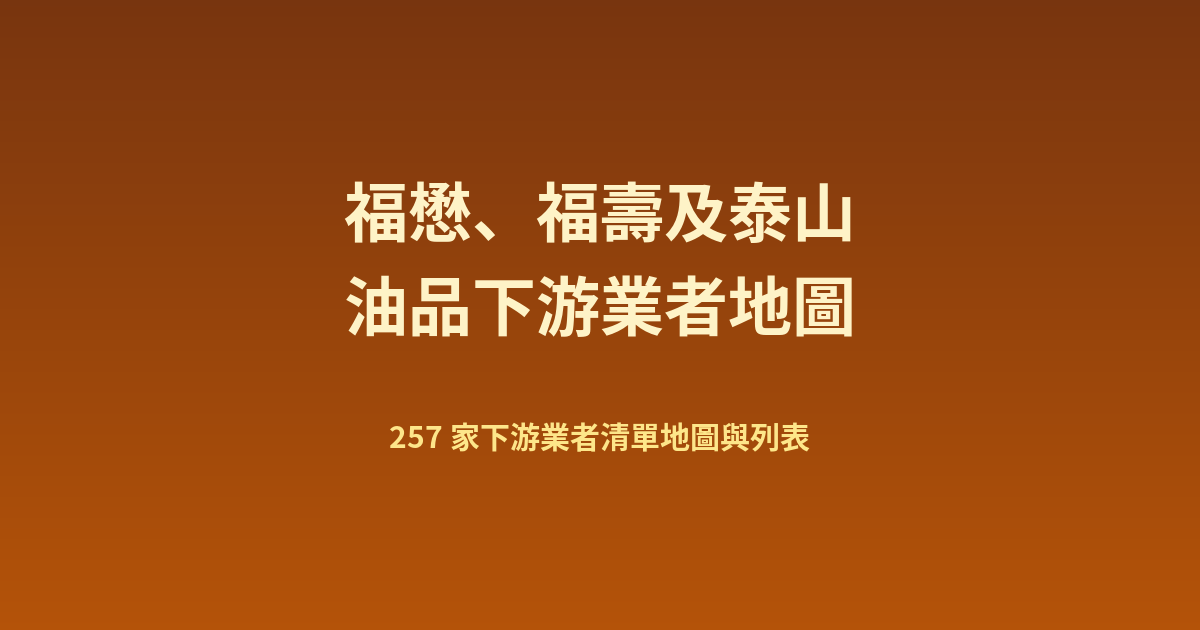
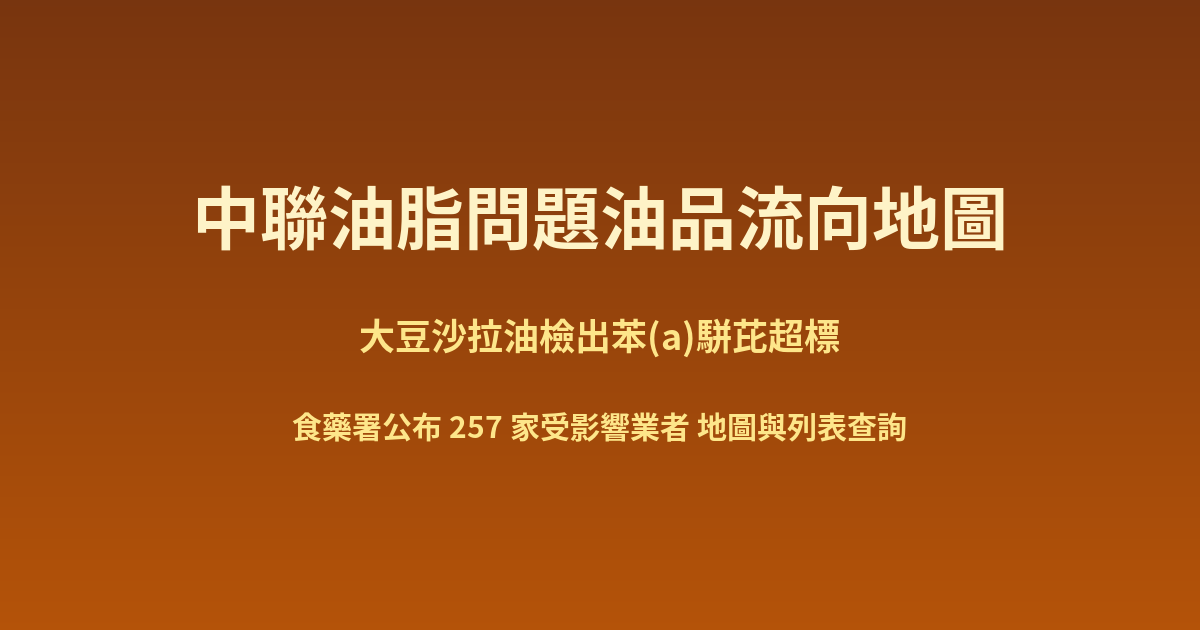
Update oil products map naming for 中聯油脂 BaP incident
Retitle the site per the TFDA 2026-07-05 press release: 中聯油脂
soybean salad oil exceeded benzo(a)pyrene limits and reached 257
downstream vendors through 福懋, 福壽 and 泰山 products. Refresh
meta tags, header note, project title and og_image accordingly.

Changed region(s): [[0.1542, 0.2714, 0.8633, 0.573], [0.2467, 0.6333, 0.7708, 0.7238]]

diff --git a/docs/p/oil_products/index.html b/docs/p/oil_products/index.html
@@ -3,12 +3,13 @@
 <head>
     <meta charset="UTF-8">
     <meta name="viewport" content="width=device-width, initial-scale=1.0">
-    <title>福懋、福壽及泰山油品下游業者地圖</title>
-    <meta name="description" content="福懋、福壽及泰山油品下游業者清單地圖與列表，地址取自商工登記資料">
-    <meta property="og:title" content="福懋、福壽及泰山油品下游業者地圖">
-    <meta property="og:description" content="福懋、福壽及泰山油品下游業者清單地圖與列表，地址取自商工登記資料">
+    <title>中聯油脂問題油品流向地圖 - 257家受影響業者查詢</title>
+    <meta name="description" content="中聯油脂大豆沙拉油檢出苯(a)駢芘（BaP）超標，食藥署公布福懋、福壽及泰山油品257家下游業者名單。提供地圖與列表查詢，業者地點取自商工登記資料。">
+    <meta name="keywords" content="中聯油脂,苯駢芘,BaP,大豆沙拉油,福懋,福壽,泰山,問題油品,下架,食安,食藥署">
+    <meta property="og:title" content="中聯油脂問題油品流向地圖 - 257家受影響業者查詢">
+    <meta property="og:description" content="中聯油脂大豆沙拉油檢出苯(a)駢芘（BaP）超標，食藥署公布福懋、福壽及泰山油品257家下游業者名單。提供地圖與列表查詢，業者地點取自商工登記資料。">
     <meta property="og:type" content="website">
-    <meta property="og:image" content="https://kiang.github.io/tainan.olc.tw/p/oil_products/og_image.png">
+    <meta property="og:image" content="https://tainan.olc.tw/p/oil_products/og_image.png">
     <!-- Google tag (gtag.js) -->
     <script async src="https://www.googletagmanager.com/gtag/js?id=G-FJ1JR851SJ"></script>
     <script>
@@ -106,7 +107,7 @@
 <body>
     <div class="top-bar">
         <div class="d-flex flex-wrap align-items-center gap-2">
-            <h1>福懋、福壽及泰山油品下游業者地圖</h1>
+            <h1>中聯油脂問題油品流向地圖</h1>
             <div class="btn-group btn-group-sm" role="group">
                 <button type="button" class="btn btn-warning" id="btnMap">地圖</button>
                 <button type="button" class="btn btn-outline-warning" id="btnTable">列表</button>
@@ -118,10 +119,10 @@
             <span class="stat-note" id="statNote"></span>
         </div>
         <div class="small stat-note mt-1">
+            中聯油脂大豆沙拉油檢出苯(a)駢芘（BaP）超標，食藥署 2026-07-05 公布經福懋、福壽及泰山油品流向的 257 家下游業者名單。
             地點為商工登記地址，可能與實際營業地點不同；未能定位的業者請切換「列表」檢視。
-            資料來源：<a href="raw.pdf" target="_blank">福懋、福壽及泰山油品下游業者清單(1150705)</a> |
-            <a href="https://facebook.com/k.olc.tw/" target="_blank">與我聯絡</a> |
-            <a href="https://tainan.olc.tw/p/" target="_blank">更多專案</a>
+            資料來源：<a href="https://www.fda.gov.tw/TC/newsContent.aspx?cid=4&id=t634418" target="_blank">福懋、福壽及泰山油品下游業者清單(1150705)</a> |
+            <a href="https://facebook.com/k.olc.tw/" target="_blank">江明宗</a> 製作
         </div>
     </div>
     <div id="map"></div>